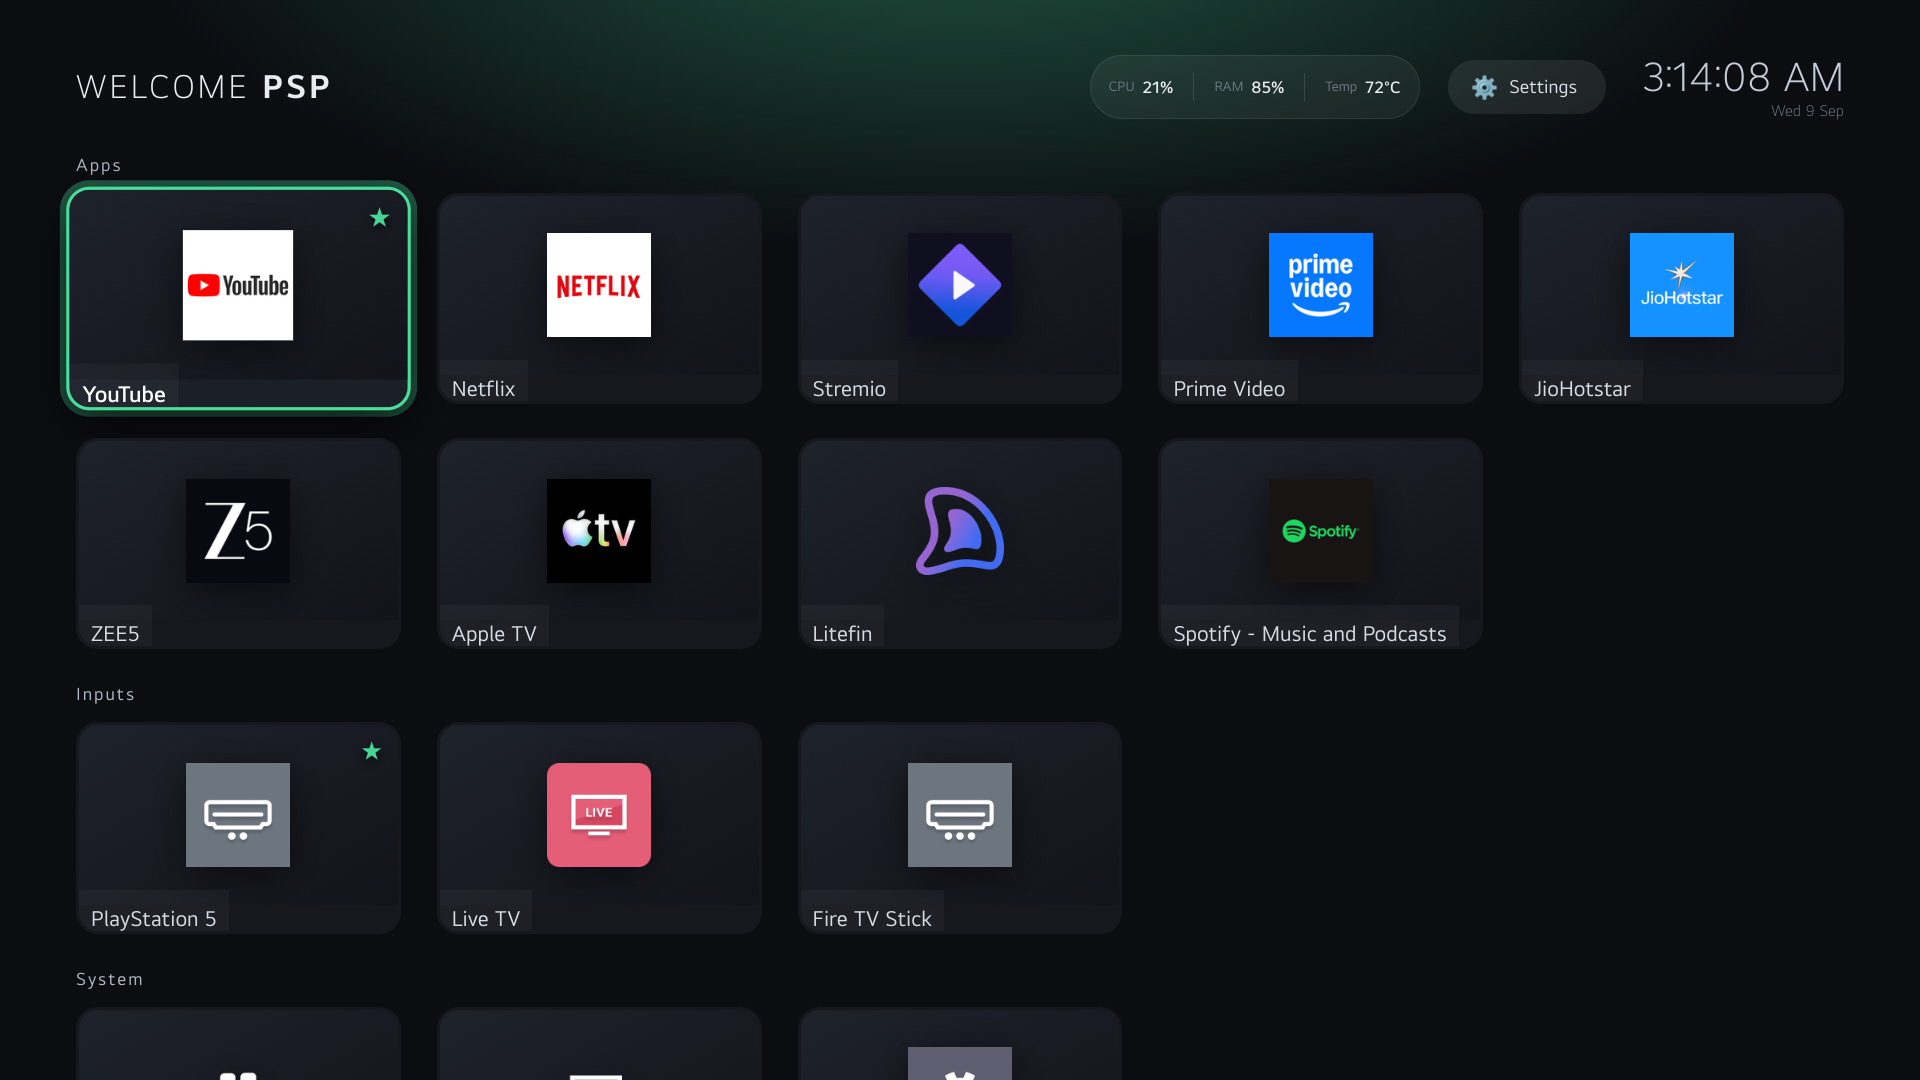
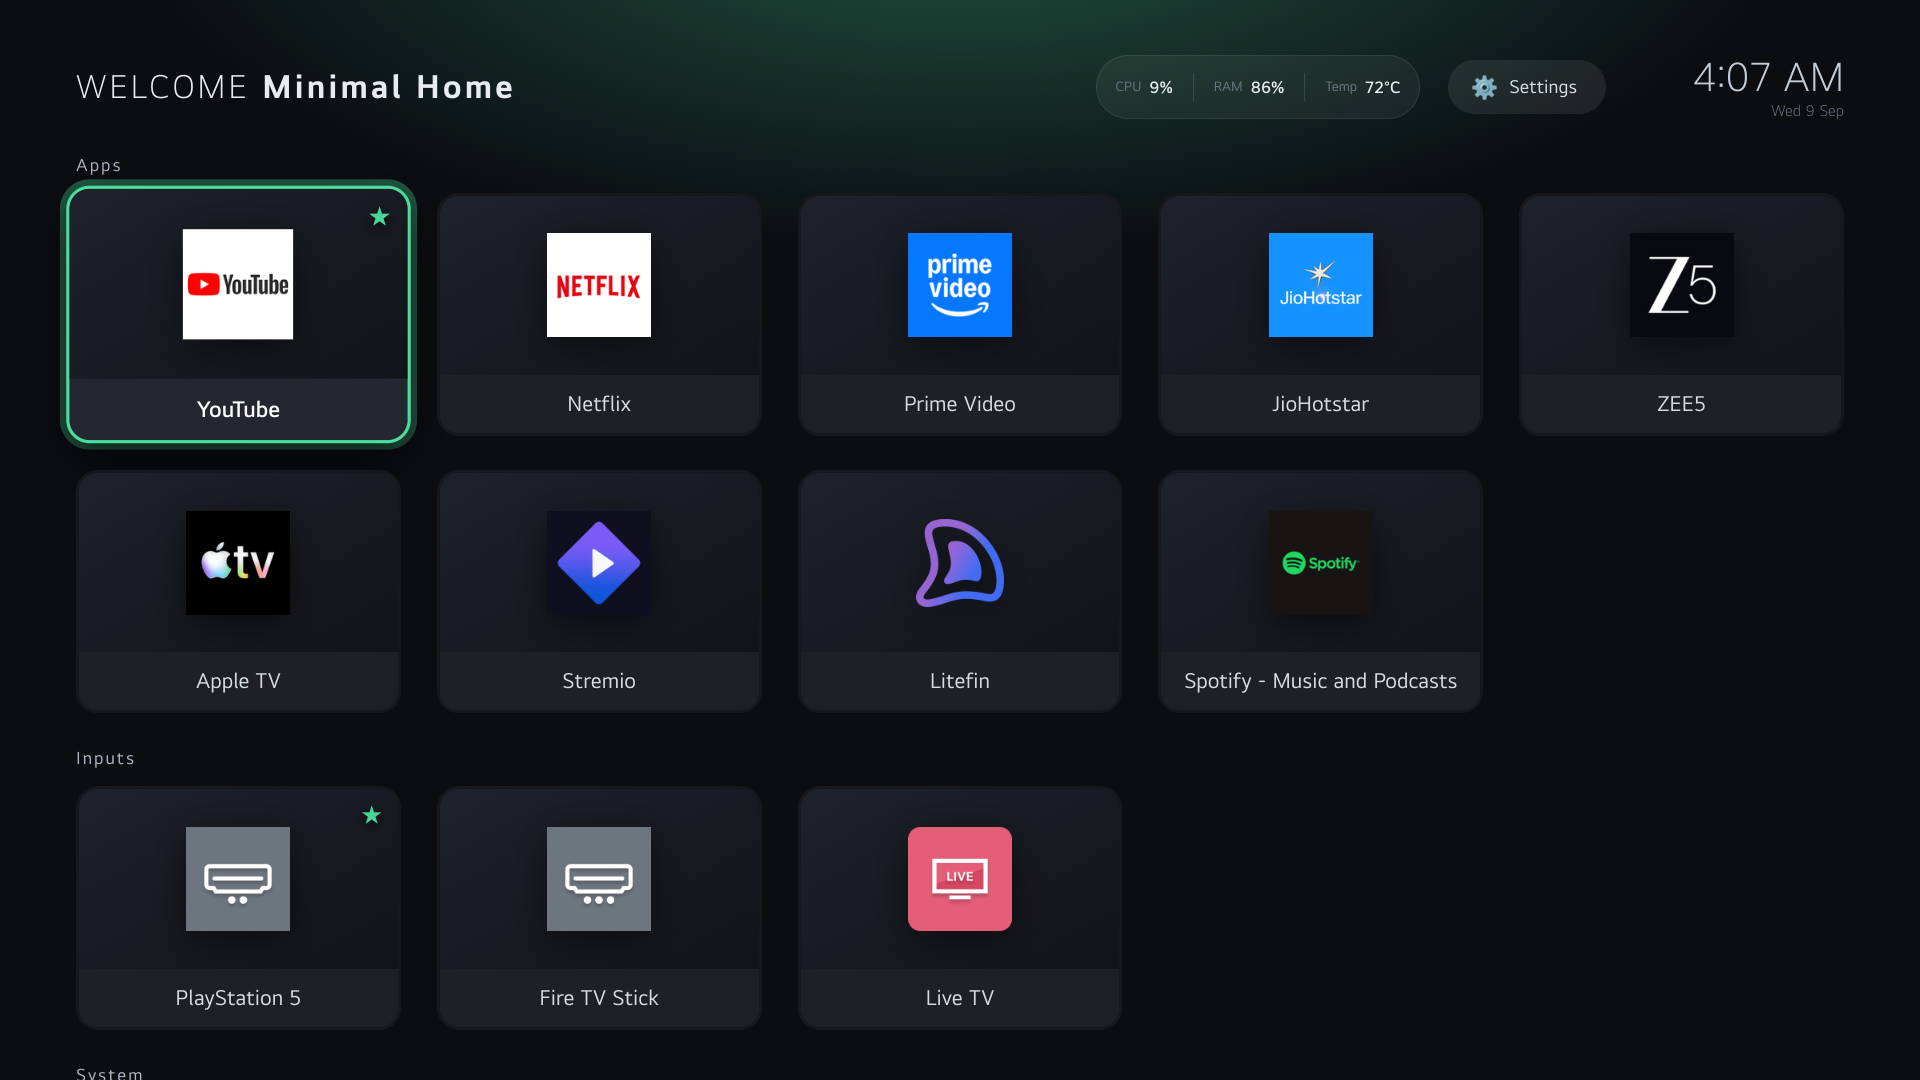
release: validate v1.4.0 on TV and fix runtime and CI regressions

diff --git a/launcher-app/index.html b/launcher-app/index.html
@@ -456,7 +456,7 @@ h1 b {
 </div>
 
 <script>
-window.MH_CONFIG = {"version": "v1.3.2", "system": ["com.webos.app.discovery", "com.webos.app.mediadiscovery", "com.palm.app.settings"], "settingsTile": {"id": "com.palm.app.settings", "title": "Settings", "icon": "icons/com.palm.app.settings.png", "params": null}};
+window.MH_CONFIG = {"version": "v1.4.0", "system": ["com.webos.app.discovery", "com.webos.app.mediadiscovery", "com.palm.app.settings"], "settingsTile": {"id": "com.palm.app.settings", "title": "Settings", "icon": "icons/com.palm.app.settings.png", "params": null}};
 /* Shared pure rules. Embedded into the web app by the Python build. */
 (function (root, factory) {
     if (typeof module === 'object' && module.exports)
@@ -1058,7 +1058,7 @@ window.MH_CONFIG = {"version": "v1.3.2", "system": ["com.webos.app.discovery", "
       art.appendChild(mkInitialEl(t.title));
     }
     d.appendChild(art);
-    var s = document.createElement("span");
+    var s = document.createElement("div");
     s.className = "label";
     s.textContent = t.title || t.id;
     d.appendChild(s);
@@ -1301,7 +1301,7 @@ window.MH_CONFIG = {"version": "v1.3.2", "system": ["com.webos.app.discovery", "
         html.push(
           '<div class="srow" tabindex="0" data-key="accent"><span class="sl">' +
             r.label +
-            '</span><span class="val">' +
+            '</span><span class="val dots">' +
             dots +
             "</span></div>"
         );
@@ -1921,6 +1921,10 @@ window.MH_CONFIG = {"version": "v1.3.2", "system": ["com.webos.app.discovery", "
   var tries = 0,
     refreshRetry = null,
     refreshing = false;
+  function isBackground() {
+    // webOS 10.3.1 can report hidden for a focused foreground webview.
+    return document.hidden && !document.hasFocus();
+  }
   function applyHeader(h) {
     if (!h) return;
     if (h.text) {
@@ -1934,7 +1938,7 @@ window.MH_CONFIG = {"version": "v1.3.2", "system": ["com.webos.app.discovery", "
     }
   }
   function refresh() {
-    if (refreshing || document.hidden) return;
+    if (refreshing || isBackground()) return;
     clearTimeout(refreshRetry);
     refreshRetry = null;
     refreshing = true;
@@ -1982,7 +1986,7 @@ window.MH_CONFIG = {"version": "v1.3.2", "system": ["com.webos.app.discovery", "
   loadPrefs();
   restoreFocus();
   document.addEventListener("visibilitychange", function () {
-    if (!document.hidden) {
+    if (!isBackground()) {
       tries = 0;
       requestRefresh();
       loadPrefs();
@@ -2007,7 +2011,7 @@ window.MH_CONFIG = {"version": "v1.3.2", "system": ["com.webos.app.discovery", "
   });
   // System stats polling (every 5s)
   function updateSystemStats() {
-    if (!document.hidden && PREFS.showSystemStats)
+    if (!isBackground() && PREFS.showSystemStats)
       svcCall(
         SVC,
         SVC_STATS_M,

diff --git a/launcher-app/src/launcher.js b/launcher-app/src/launcher.js
@@ -425,7 +425,7 @@
       art.appendChild(mkInitialEl(t.title));
     }
     d.appendChild(art);
-    var s = document.createElement("span");
+    var s = document.createElement("div");
     s.className = "label";
     s.textContent = t.title || t.id;
     d.appendChild(s);
@@ -668,7 +668,7 @@
         html.push(
           '<div class="srow" tabindex="0" data-key="accent"><span class="sl">' +
             r.label +
-            '</span><span class="val">' +
+            '</span><span class="val dots">' +
             dots +
             "</span></div>"
         );
@@ -1288,6 +1288,10 @@
   var tries = 0,
     refreshRetry = null,
     refreshing = false;
+  function isBackground() {
+    // webOS 10.3.1 can report hidden for a focused foreground webview.
+    return document.hidden && !document.hasFocus();
+  }
   function applyHeader(h) {
     if (!h) return;
     if (h.text) {
@@ -1301,7 +1305,7 @@
     }
   }
   function refresh() {
-    if (refreshing || document.hidden) return;
+    if (refreshing || isBackground()) return;
     clearTimeout(refreshRetry);
     refreshRetry = null;
     refreshing = true;
@@ -1349,7 +1353,7 @@
   loadPrefs();
   restoreFocus();
   document.addEventListener("visibilitychange", function () {
-    if (!document.hidden) {
+    if (!isBackground()) {
       tries = 0;
       requestRefresh();
       loadPrefs();
@@ -1374,7 +1378,7 @@
   });
   // System stats polling (every 5s)
   function updateSystemStats() {
-    if (!document.hidden && PREFS.showSystemStats)
+    if (!isBackground() && PREFS.showSystemStats)
       svcCall(
         SVC,
         SVC_STATS_M,

diff --git a/tests/test_tools.py b/tests/test_tools.py
@@ -151,7 +151,13 @@ class InstallerTest(unittest.TestCase):
                         MH_RESPONSE='{"returnValue":true}', MH_SSH_EXIT="0", MH_SCP_EXIT="0")
         self.env.pop("APP_ID", None)
         self.env.pop("SVC_ID", None)
-        self.env["PATH"] = os.pathsep.join((str(self.bin), str(Path(SHELL).parent), self.env["PATH"]))
+        # Windows runners may use 'Path': duplicate case variants can cause the
+        # child process to select the real SSH binary instead of our stubs.
+        inherited_path = os.environ.get("PATH", "")
+        for key in list(self.env):
+            if key.upper() == "PATH":
+                del self.env[key]
+        self.env["PATH"] = os.pathsep.join((str(self.bin), str(Path(SHELL).parent), inherited_path))
         self.stub("ssh", 'printf "ssh\\n" >> "$MH_CALL_LOG"\nprintf "%s\\n" "$@" >> "$MH_CALL_LOG"\n'
                   'if [ "$MH_SSH_EXIT" != 0 ]; then exit "$MH_SSH_EXIT"; fi\n'
                   'case "$*" in *luna-send*) printf "%s\\n" "$MH_RESPONSE";; esac\n')

diff --git a/tests/test_runtime.py b/tests/test_runtime.py
@@ -12,5 +12,5 @@ class RuntimeTests(unittest.TestCase):
         self.assertIsNotNone(shutil.which("node"), "Node.js is required")
         self.assertTrue((root / "node_modules/jsdom").is_dir(), "Run npm ci for host test dependencies")
         tests = sorted(str(path) for path in (root / "tests/js").glob("*.test.cjs"))
-        subprocess.run(["node", "node_modules/c8/bin/c8.js", "node", "--test", "--test-isolation=none", *tests],
+        subprocess.run(["node", "node_modules/c8/bin/c8.js", "node", "--test", "--experimental-test-isolation=none", *tests],
                        cwd=root, check=True, timeout=120)

diff --git a/docs/releases/v1.4.0.md b/docs/releases/v1.4.0.md
@@ -1,0 +1,66 @@
+# Minimal Home v1.4.0
+
+This release improves launcher reliability and maintainability, adds enforced
+coding standards and runtime coverage, and refreshes the screenshots from a TV
+running the release build.
+
+## Fixes and behavior
+
+- Live tiles and statistics continue updating when webOS incorrectly marks a
+  focused foreground webview as hidden. This was reproduced and fixed on-device.
+- Settings saves are serialized, and late responses cannot overwrite newer edits.
+- The LG Home tile survives live refreshes. Failed Home launches clear their bypass.
+- Home redirect cooldowns schedule retries; interrupted Luna subscriptions reconnect.
+- Holding OK to open a tile menu cannot accidentally activate its first option.
+- Live tile labels retain their full-width centered layout, and accent choices
+  render as separate color dots; both were checked in TV screenshots.
+- Back closes search; Backspace edits its query. Alphabetical sorting respects its
+  selected order independently of pins.
+- Input launches preserve allowed live per-port parameters without replacing the
+  target app ID. Malformed or duplicate launch points are filtered.
+- State writes are atomic. Request lifetimes, retries, logs, and stored preferences
+  are bounded; identical icons are not repeatedly written to TV storage.
+
+## Development
+
+- Frontend sources now live in `launcher-app/src/`; the Python generator assembles
+  the self-contained page. Preferences, validation, sorting, storage, and stream
+  parsing use shared modules.
+- ESLint and Prettier enforce the project conventions. Host-only npm dependencies
+  are locked and excluded from deployment packages.
+- JavaScript coverage reaches 100% of lines, statements, and functions, with
+  91.44% branch coverage on the local validation run. Per-file CI gates require
+  100% lines/statements/functions and at least 85% branches; runtime files are not
+  excluded. Coverage measures executable JavaScript, not hardware compatibility.
+- Node 22 test-runner compatibility and Windows installer-test PATH handling are
+  fixed. Contributor, architecture, testing, and agent guides reflect the new layout.
+
+## Device validation
+
+Tested on an LG **43UR7500PSC**, firmware **33.31.61**, **webOS 10.3.1**,
+with TV Node **16.20.2** and the Chrome **120** webview:
+
+- Cold launch and live app/input discovery, including returning from another app.
+- D-pad/OK/Back handlers, long-OK menu behavior, search, pin/hide/restore, rapid
+  preference changes, and persistence after a webview restart.
+- YouTube launch and switching to HDMI 2 through the relay.
+- LG Home bypass creation and continued bypass during a short observation window;
+  its stored expiry was verified as ten minutes. The full interval was not timed.
+- Stock Home redirection and successful reconnection/redirection after terminating
+  the watcher's Luna subscription; exactly one watcher remained.
+- Live CPU, RAM, and temperature readings. Screenshots were captured from the TV webview.
+
+Navigation events were injected through the TV debugger. Physical remote signal
+delivery, HDMI picture/audio, reboot persistence, and other models/firmware were
+not independently verified. The original TV preferences and usage state were restored.
+
+## Updating
+
+Use the archive and SHA-256 checksum attached to this release. Deploy both app and
+service directories, including the new shared JavaScript modules. Existing
+preferences and usage files should be preserved. Restart the launcher webview,
+relay, and watcher so every process loads the new code.
+
+This remains an update for an already rooted and registered installation; it does
+not install root access, Luna permissions, or a persistent boot hook. See
+[installation and recovery](https://github.com/Pragalbha-Patil/webos-minimal-home/blob/v1.4.0/docs/INSTALL.md).

diff --git a/docs/RELEASING.md b/docs/RELEASING.md
@@ -16,6 +16,8 @@ Complete the [contributor setup](../CONTRIBUTING.md#local-setup), including
    configured version. Inspect the archive and its SHA-256 sidecar in `dist/`.
 5. Record the TV models/firmware and device scenarios actually tested. Call out
    installation limitations and any unverified device behavior in release notes.
+   Write these notes to `docs/releases/vVERSION.md` and commit them before tagging;
+   the release workflow publishes that file as the release description.
 
 Packaging rejects a mismatched tag or stale generated output. Files come from
 an explicit allowlist in `tools/package.py`, excluding runtime state and private
@@ -27,7 +29,7 @@ toolchain. The SHA-256 sidecar records the resulting archive digest.
 
 After review, create and push the corresponding `vVERSION` tag. The release
 workflow first runs the shared CI workflow, then packages the checked source
-and publishes the archive and checksum with generated release notes.
+and publishes the archive and checksum with the reviewed versioned release notes.
 
 The publish job has repository write permission; validation uses read-only
 permissions. Workflow commands read the tag through an environment variable.

diff --git a/docs/ARCHITECTURE.md b/docs/ARCHITECTURE.md
@@ -73,6 +73,9 @@ These constraints come from project device observations, including webOS
   The generated service-local config is intentional.
 - Background webviews can be purged after a short delay. Refresh on foreground
   return; do not assume in-memory state survived another app.
+- On webOS 10.3.1, a focused foreground webview can still report
+  `document.hidden === true`. Background work checks also use `document.hasFocus()`
+  so this stale visibility flag does not prevent live tiles or statistics.
 - `disableBackHistoryAPI: true` lets the app handle Back rather than delegating
   it to a platform exit/history dialog.
 - Input tiles come from launch points and bookmark metadata. Preserve

diff --git a/docs/TESTING.md b/docs/TESTING.md
@@ -68,6 +68,8 @@ when modifying conditional logic.
 state for each test. The full suite runs without test-process isolation so host
 sandbox process restrictions do not prevent coverage collection. Individual
 scripts and DOMs still get fresh environments and are cleaned up after each test.
+The runner uses `--experimental-test-isolation=none`, the spelling supported by
+both Node 22 and 24; the unprefixed flag is unavailable on Node 22.
 
 No local test contacts a TV. Desktop tests cannot verify Luna authorization,
 service jailing, the TV's browser/Node compatibility, real input switching,
